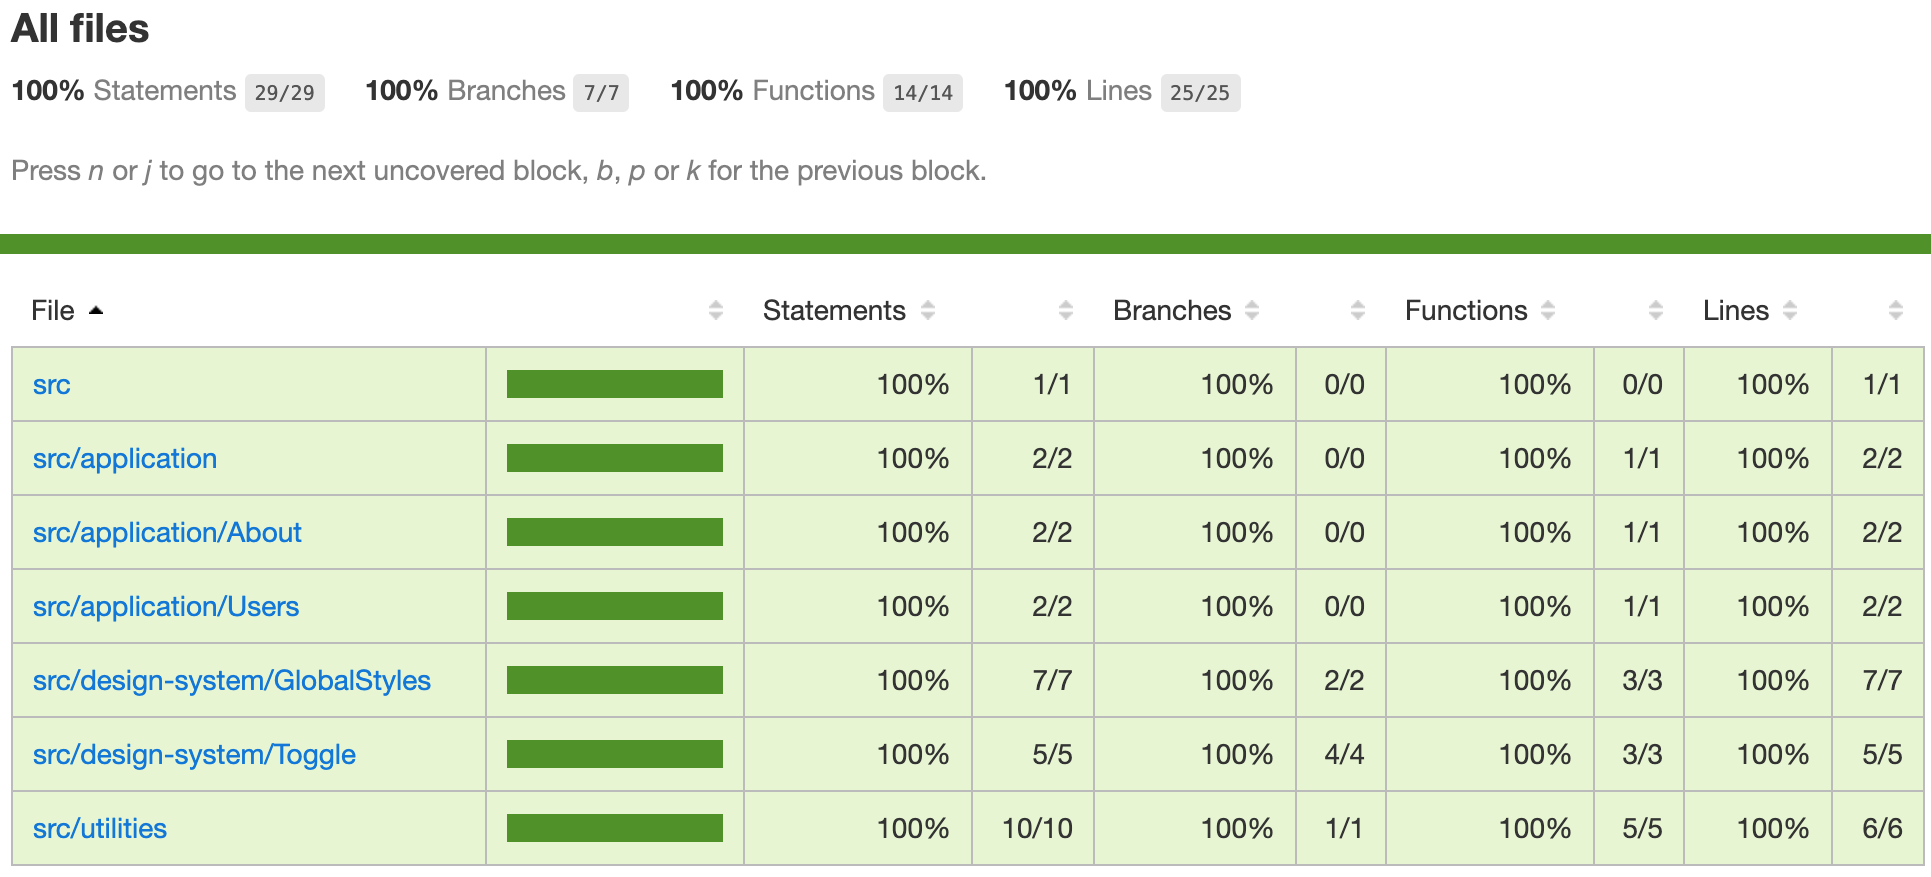
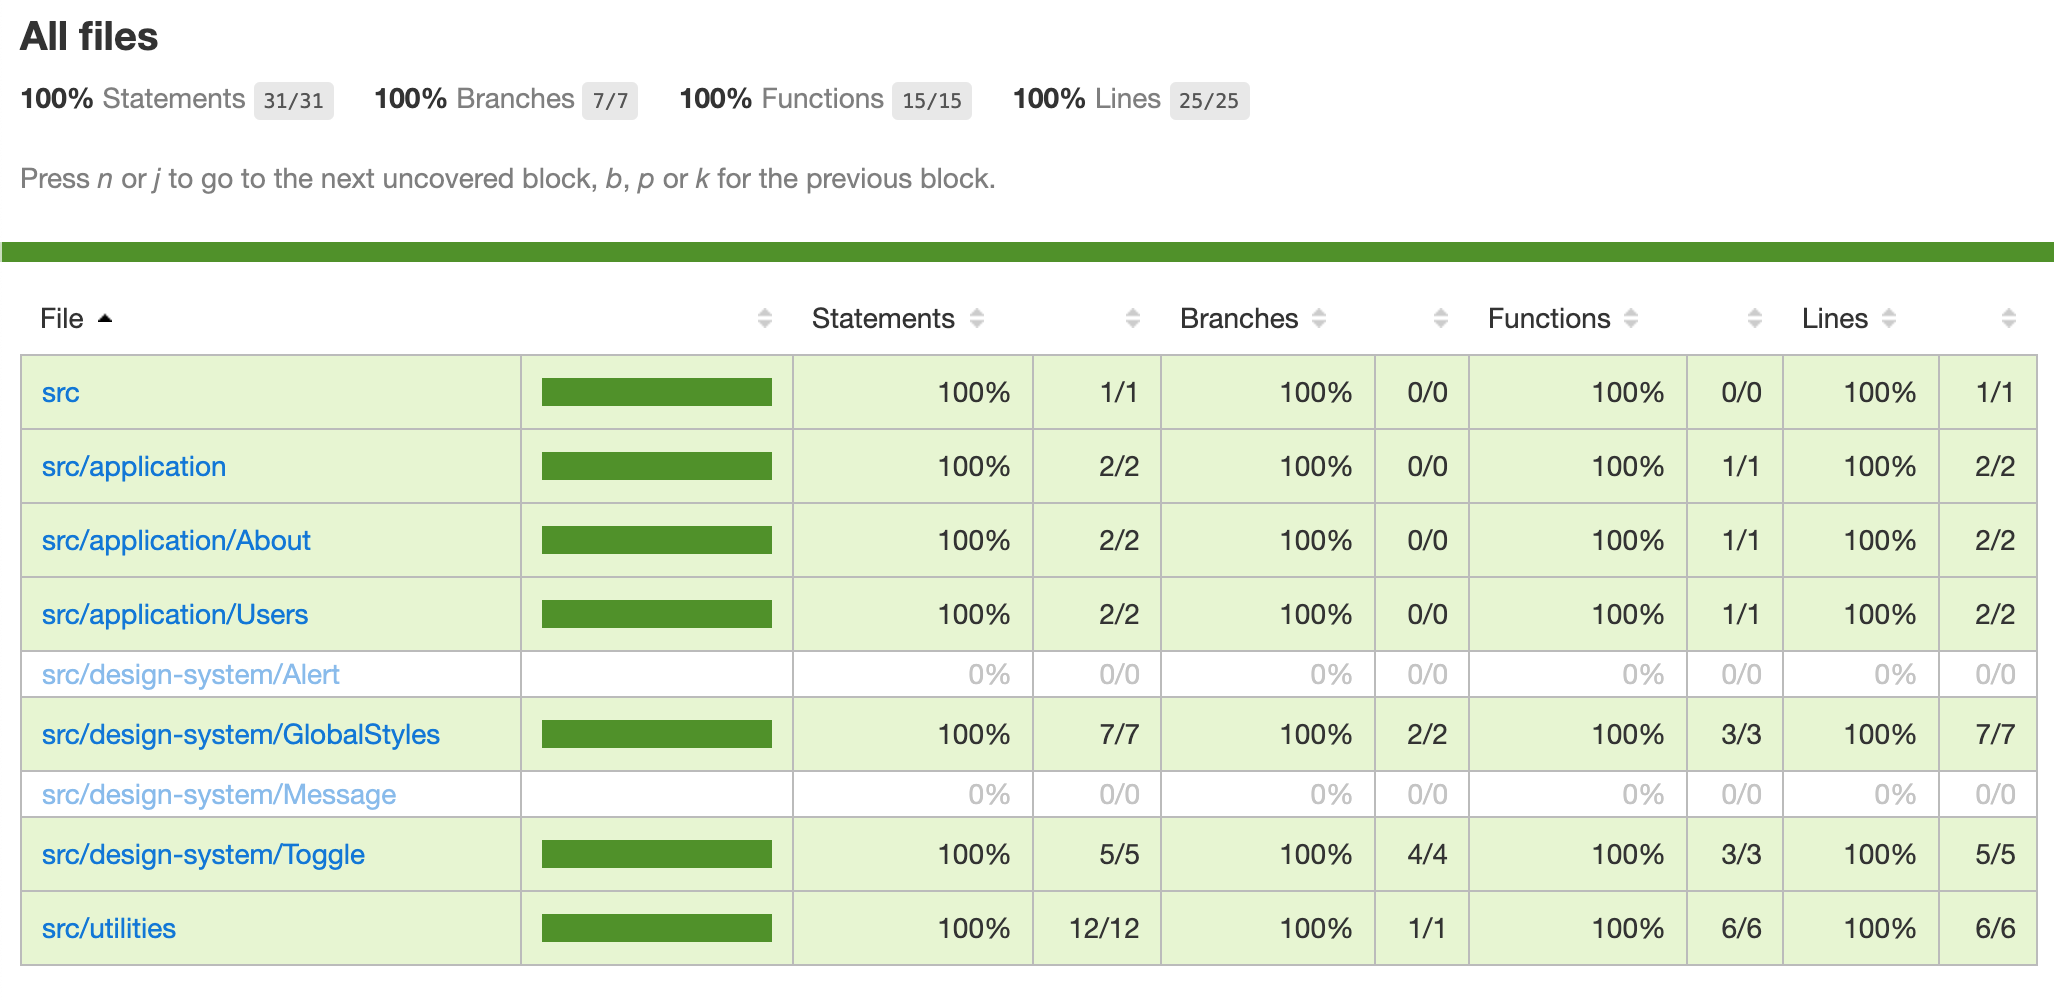
add description and tweak

diff --git a/src/utilities/addOne.spec.js b/src/utilities/addOne.spec.js
@@ -1,0 +1,8 @@
+/// <reference types="cypress" />
+// unit test!
+import {addOne} from './addOne'
+describe('addOne', () => {
+  it('adds 1', () => {
+    expect(addOne(1)).to.equal(2)
+  })
+})

diff --git a/src/utilities/addOne.js b/src/utilities/addOne.js
@@ -1,1 +1,3 @@
-export const addOne = (x) => x + 1;
+export const addOne = (x) => {
+  return x + 1
+}

diff --git a/README.md b/README.md
@@ -1,7 +1,17 @@
 # Storybook code coverage example
 
-Forked from this blog post [Combining Storybook, Cypress and Jest Code Coverage](https://dev.to/penx/combining-storybook-cypress-and-jest-code-coverage-4pa5), updated to use [cypress-react-unit-test v2](https://github.com/bahmutov/cypress-react-unit-test/tree/feature/cypress-mount-mode)
+Forked from this blog post [Combining Storybook, Cypress and Jest Code Coverage](https://dev.to/penx/combining-storybook-cypress-and-jest-code-coverage-4pa5), updated to use [cypress-react-unit-test](https://github.com/bahmutov/cypress-react-unit-test) to run component tests
 
-See Cypress integration spec [cypress/integration/spec.js](cypress/integration/spec.js) and Cypress component tests [utilities/useToggle.spec.js](utilities/useToggle.spec.js), [src/design-system/GlobalStyles/global-styles-spec.js](src/design-system/GlobalStyles/global-styles-spec.js) and [src/application/App-spec.js](src/application/App-spec.js). When running together they get 100% code coverage
+```shell
+$ yarn
+$ yarn run coverage
+$ open coverage/lcov-report/index.html
+```
 
 ![Coverage](images/coverage.png)
+
+Cypress automatically combines coverage from end-to-end (integration), component and unit tests into a single report.
+
+Test | Description
+--- | ---
+
